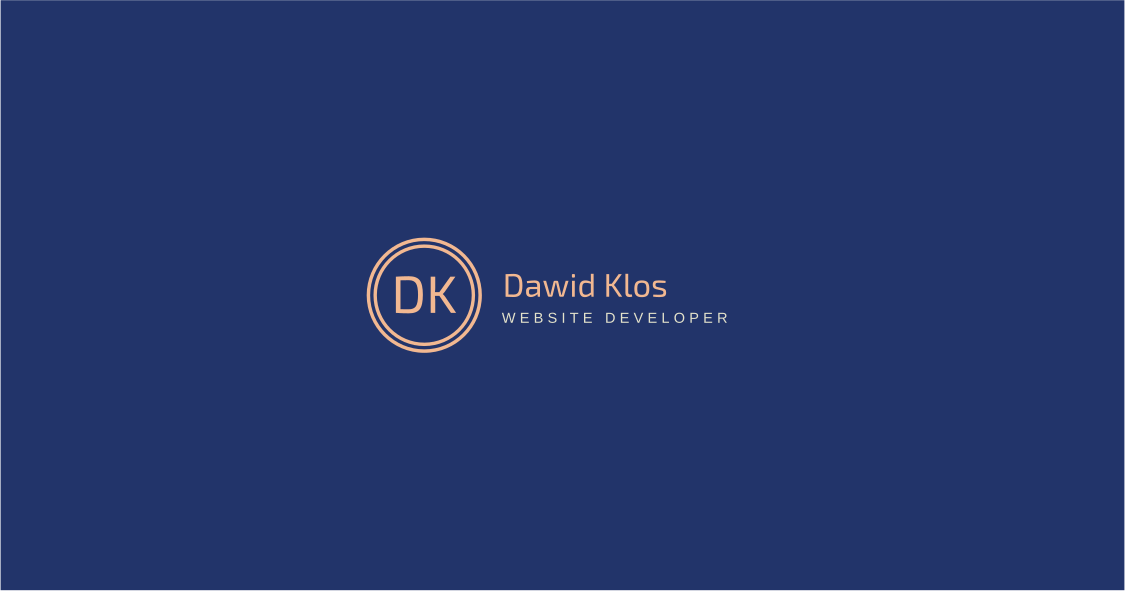
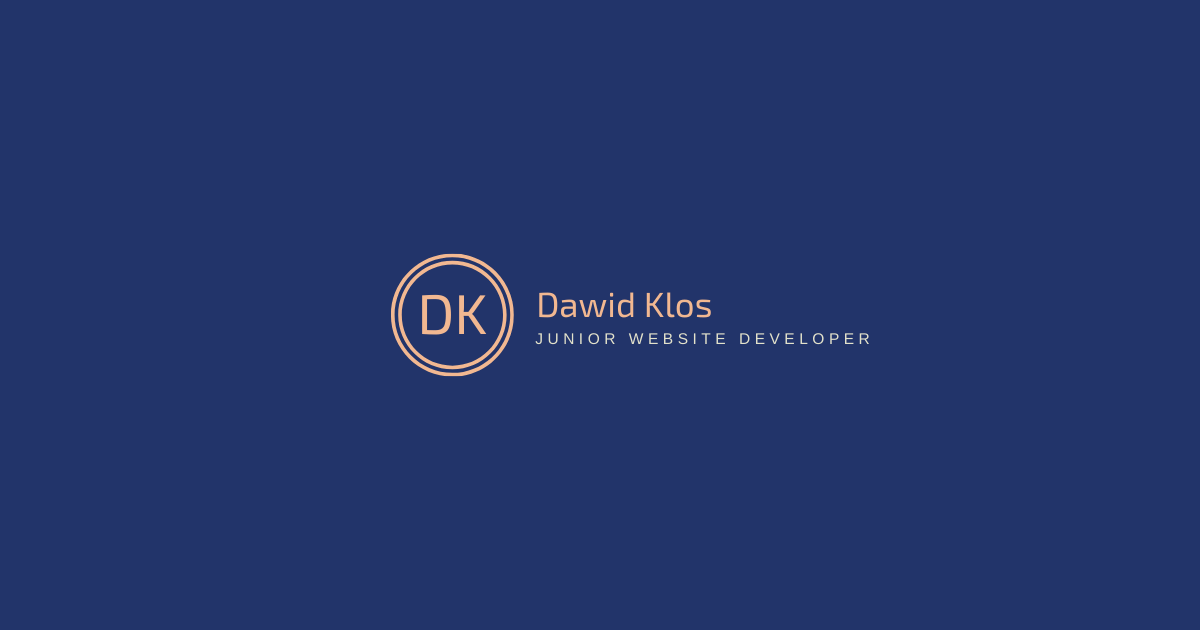
Change cover.png and correct link in html

diff --git a/src/pages/index.html b/src/pages/index.html
@@ -17,7 +17,7 @@
     <!-- full url to the image with http(s) ie. https://maciejkorsan.github.io/my-repo/assets/img/fb.png. Facebook suggests at least 1200 x 630. -->
     <meta
       property="og:image"
-      content="https://maciejkorsan.com/wtf-gulp-starter/assets/img/cover.png"
+      content="https://dawid-klos.github.io/cover.png"
     />
 
     <!-- uncomment the line below to enable PWA  -->
@@ -35,8 +35,6 @@
       href="https://fonts.googleapis.com/css2?family=Roboto+Mono&display=swap"
       rel="stylesheet"
     />
-    <!-- AOS Animations
-    <link rel="stylesheet" href="https://unpkg.com/aos@next/dist/aos.css" /> -->
 
     <link
       rel="apple-touch-icon"
